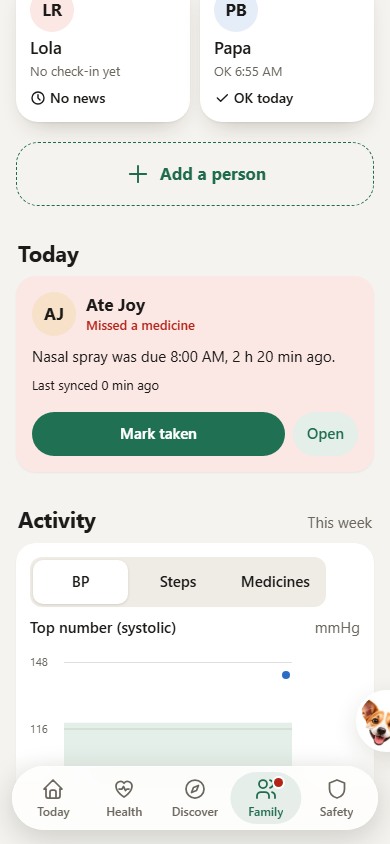
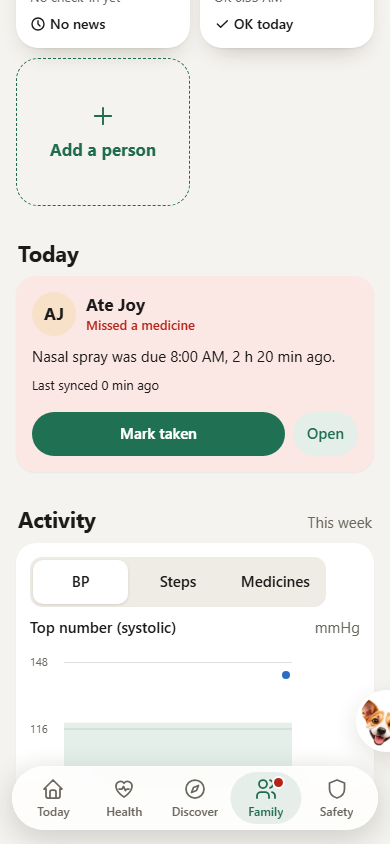
S25 lane D fix round 1: dark media block for Together tiles, order test, Memories grid tests, Add card as a grid cell, tail shot, dark shot

Changed region(s): [[0.0308, 0.0, 0.4923, 0.2156], [0.5231, 0.0, 0.9538, 0.154], [0.4, 0.1848, 0.6769, 0.2464]]

diff --git a/src/features/family/Memories.test.tsx b/src/features/family/Memories.test.tsx
@@ -1,8 +1,13 @@
-import { render, screen } from '@testing-library/react'
-import { describe, expect, it, vi } from 'vitest'
+import { cleanup, fireEvent, render, screen, waitFor, within } from '@testing-library/react'
+import { afterEach, describe, expect, it, vi } from 'vitest'
 
-vi.mock('../shell/useKv', () => ({ useKv: () => [false, vi.fn(), true] }))
+const h = vi.hoisted(() => ({ on: false, photos: [] as { id: string; path: string; caption: string | null; takenOn: string | null; createdAt: string; mine: boolean; url: string | null }[] }))
+vi.mock('../shell/useKv', () => ({ useKv: () => [h.on, vi.fn(), true] }))
+vi.mock('./memoriesApi', () => ({ listPhotos: async () => ({ ok: true, data: h.photos }), addPhoto: vi.fn(), removePhoto: vi.fn() }))
 const { default: Memories } = await import('./Memories')
+
+afterEach(() => { cleanup(); h.on = false; h.photos = [] })
+const photo = (n: number) => ({ id: `p${n}`, path: `f/${n}.jpg`, caption: `Photo ${n}`, takenOn: null, createdAt: '2026-10-01T02:00:00+00:00', mine: false, url: null })
 
 describe('Memories (F8)', () => {
   it('off: one honest empty state, no second title, no "Off for now"', () => {
@@ -11,5 +16,32 @@ describe('Memories (F8)', () => {
     expect(screen.getByText('Memories is off')).toBeTruthy()
     expect(screen.queryByText(/Off for now/)).toBeNull()
     expect(screen.getByRole('button', { name: 'Turn on Memories' })).toBeTruthy()
+  })
+})
+
+describe('Memories grid (S25)', () => {
+  const grid = () => within(screen.getByTestId('mem-grid')).getByRole('group', { name: 'Family photos' })
+  const tiles = () => [...grid().querySelectorAll('.mem-tile')].map((t) => t.textContent ?? '')
+
+  it('the Add a photo tile is the first cell of a 2-column grid; three photos fit with no Show more', async () => {
+    h.on = true; h.photos = [photo(1), photo(2), photo(3)]
+    render(<Memories />)
+    await waitFor(() => expect(tiles()).toHaveLength(4))
+    expect(grid().className).toBe('more-grid')
+    expect(tiles()[0]).toContain('Add a photo')
+    expect(screen.queryByRole('button', { name: /Show/ })).toBeNull()
+  })
+
+  it('six photos: Add plus three show, Show 3 more adds the rest, Show less folds back', async () => {
+    h.on = true; h.photos = [1, 2, 3, 4, 5, 6].map(photo)
+    render(<Memories />)
+    await waitFor(() => expect(tiles()).toHaveLength(4))
+    expect(tiles()[0]).toContain('Add a photo')
+    expect(tiles()[3]).toContain('Photo 3')
+    fireEvent.click(screen.getByRole('button', { name: 'Show 3 more' }))
+    expect(tiles()).toHaveLength(7) // Add and six photos
+    expect(tiles()[6]).toContain('Photo 6')
+    fireEvent.click(screen.getByRole('button', { name: 'Show less' }))
+    expect(tiles()).toHaveLength(4)
   })
 })

diff --git a/src/features/family/s25-family.css b/src/features/family/s25-family.css
@@ -9,6 +9,10 @@
 .fm-papers { background: linear-gradient(180deg, var(--card), color-mix(in srgb, var(--tab-accent-soft, var(--soft)) 45%, var(--card))); border-color: var(--tab-accent, var(--green)); }
 :root[data-theme="dark"] .fm-tile { box-shadow: inset 0 1px 0 rgba(255,255,255,.12), var(--depth-card, 0 12px 26px -14px rgba(0,0,0,.6)); }
 :root[data-theme="dark"] .fm-tile::after { background: radial-gradient(circle, rgba(255,255,255,.14), rgba(255,255,255,0) 70%); }
+@media (prefers-color-scheme: dark) {
+  :root:not([data-theme="light"]) .fm-tile { box-shadow: inset 0 1px 0 rgba(255,255,255,.12), var(--depth-card, 0 12px 26px -14px rgba(0,0,0,.6)); }
+  :root:not([data-theme="light"]) .fm-tile::after { background: radial-gradient(circle, rgba(255,255,255,.14), rgba(255,255,255,0) 70%); }
+}
 
 /* People: a 2-column grid of person cards */
 .pp-card { display: flex; flex-direction: column; align-items: flex-start; gap: 4px; min-height: 148px; box-sizing: border-box; padding: 14px; border-radius: 22px; background: var(--card); color: var(--ink); text-decoration: none; min-width: 0; }
@@ -16,12 +20,9 @@
 .pp-card .sub { font-size: 13px; line-height: 18px; overflow-wrap: anywhere; }
 .pp-st { margin-top: auto; display: inline-flex; align-items: center; gap: 4px; font-size: 14px; font-weight: 600; color: var(--ink); }
 .pp-st[data-k="look"] { color: var(--tint-amber-ink); }
-.pp-add { margin-top: 10px; min-height: 64px; flex-direction: row; align-items: center; justify-content: center; gap: 8px; background: transparent; box-shadow: none; border: 1.5px dashed var(--tab-accent, var(--green)); color: var(--tab-accent, var(--green)); }
+.pp-add { align-items: center; justify-content: center; text-align: center; gap: 8px; background: transparent; box-shadow: none; border: 1.5px dashed var(--tab-accent, var(--green)); color: var(--tab-accent, var(--green)); }
 
-/* Faces row, notes row and memories: wrap, stack or grid; never a sideways scroller */
-.fm2-faces-row { flex-wrap: wrap; overflow-x: visible; margin: 0; padding: 0 0 4px; }
-.fm-notes { display: grid; grid-template-columns: 1fr; overflow-x: visible; margin: 0; padding: 0 0 4px; }
-.bt .fm-note { flex: none; }
+/* Memories and the Jack strip */
 .mem-tile { width: auto; }
 .mem-img { width: 100%; height: auto; aspect-ratio: 1; }
 /* Jack peeks over the right 48 px; the metric tabs stop short of that strip so the last one is never under him (ML-44) */

diff --git a/e2e/s25-family-shots.auth.spec.ts b/e2e/s25-family-shots.auth.spec.ts
@@ -13,7 +13,7 @@ test.use({ viewport: { width: 390, height: 844 } })
 test.describe.configure({ timeout: 90_000 })
 test.beforeEach(async ({ page }) => {
   await skipOnboarding(page)
-  await page.emulateMedia({ colorScheme: "light" }) // no reducedMotion here: with it the roster did not draw after the reload in this fixture (also v13-family.auth root); the CSS honours it regardless
+  await page.emulateMedia({ colorScheme: 'light', reducedMotion: 'reduce' })
 })
 
 test('S25 Family order and no sideways scroller: Together, Papers, Where, Needs, People, Today, Activity', async ({ page }) => {
@@ -31,6 +31,7 @@ test('S25 Family order and no sideways scroller: Together, Papers, Where, Needs,
     await at(page, 0); await page.screenshot({ path: `${SHOTS}/root-top-me.png` })
     await page.getByTestId('needs').scrollIntoViewIfNeeded(); await page.screenshot({ path: `${SHOTS}/root-middle-me.png` })
     await page.getByTestId('people').scrollIntoViewIfNeeded(); await page.screenshot({ path: `${SHOTS}/root-people-me.png` })
+    await page.locator('.bt .scroll').evaluate((el) => { el.scrollTop = el.scrollHeight }); await page.screenshot({ path: `${SHOTS}/root-bottom-today-activity-me.png` })
   }
 })
 
@@ -39,4 +40,14 @@ test('S25 Family with another person selected: Open on a Needs line shows that p
   await page.getByTestId('need-row').first().getByRole('button', { name: /^Open/ }).click()
   await expect(page.getByTestId('person-card').first()).toBeInViewport() // the pick brings Today into view, not the top of the page
   if (SHOTS) await page.screenshot({ path: `${SHOTS}/root-selected-ate.png` })
+})
+
+test('S25 Together tiles in system dark (no data-theme): the dark shadow and highlight apply', async ({ page }) => {
+  await page.emulateMedia({ colorScheme: 'dark', reducedMotion: 'reduce' })
+  await openFamily(page)
+  expect(await page.evaluate(() => document.documentElement.getAttribute('data-theme'))).not.toBe('light')
+  const tile = page.locator('.fm-tile').first()
+  await expect(tile).toBeVisible()
+  expect(await tile.evaluate((e) => getComputedStyle(e).boxShadow)).toContain('rgba(255, 255, 255, 0.12)') // the dark inset edge, from the media block
+  if (SHOTS) { await page.getByTestId('together').scrollIntoViewIfNeeded(); await page.screenshot({ path: `${SHOTS}/together-dark.png` }) }
 })

diff --git a/src/features/family/PeopleList.test.tsx b/src/features/family/PeopleList.test.tsx
@@ -35,11 +35,11 @@ describe('PeopleList flag word (D-109)', () => {
     expect(screen.getByTestId('people-add').getAttribute('href')).toBe('#me/family')
     expect(document.body.textContent).not.toMatch(/place sharing/i)
   })
-  it('People is a 2-column grid, not a sideways scroller', () => {
+  it('People is a 2-column grid, and the Add card is a cell in it, also after Show more', () => {
     render(<PeopleList people={people} />)
     const grid = within(screen.getByTestId('people-list')).getByRole('group', { name: 'People' })
     expect(grid.className).toBe('more-grid')
-    expect(grid.querySelector('.fm2-faces-row, .mem-strip')).toBeNull()
+    expect(grid.lastElementChild).toBe(screen.getByTestId('people-add')) // inside the grid, last cell
   })
   it('five people: four cards, anyone flagged or not checked in first, Show 1 more adds the rest', () => {
     render(<PeopleList people={[...people, person('x1', 'Ana Cruz'), person('x2', 'Ben Cruz')]} />)
@@ -59,5 +59,14 @@ describe('PeopleList flag word (D-109)', () => {
     expect(row(/Zed/).textContent).toContain('2 to check')
     fireEvent.click(screen.getByRole('button', { name: 'Show 1 more' }))
     expect(names()).toEqual(['Zed', 'You', 'Ana', 'Ben', 'Cy'])
+  })
+  it('with more than four people the Add card stays the last cell of the grid, before and after Show more', () => {
+    render(<PeopleList people={[...people, person('x1', 'Ana Cruz'), person('x2', 'Ben Cruz')]} />)
+    const grid = () => within(screen.getByTestId('people-list')).getByRole('group', { name: 'People' })
+    expect(grid().children).toHaveLength(5) // four people and Add
+    expect(grid().lastElementChild).toBe(screen.getByTestId('people-add'))
+    fireEvent.click(screen.getByRole('button', { name: 'Show 1 more' }))
+    expect(grid().children).toHaveLength(6)
+    expect(grid().lastElementChild).toBe(screen.getByTestId('people-add'))
   })
 })

diff --git a/src/features/look/MoreGrid.tsx b/src/features/look/MoreGrid.tsx
@@ -2,8 +2,8 @@ import { Children, useState, type ReactNode } from 'react'
 import './v13.css'
 
 /** S25 (D-156): replaces every side-swiping card row. A 2-column grid shows `step` cards (4), "Show N more" adds `step` at a time, "Show less" folds back.
- *  Children are the cards; each card fills its cell (no fixed widths). */
-export function MoreGrid(p: { children: ReactNode; label: string; testId?: string; step?: number; moreLabel?: (n: number) => string }) {
+ *  `tail` is a card that always ends the grid (an Add card), outside the Show more count. Children are the cards; each card fills its cell (no fixed widths). */
+export function MoreGrid(p: { children: ReactNode; label: string; testId?: string; step?: number; moreLabel?: (n: number) => string; tail?: ReactNode }) {
   const step = p.step ?? 4
   const items = Children.toArray(p.children)
   const [shown, setShown] = useState(step)
@@ -11,7 +11,7 @@ export function MoreGrid(p: { children: ReactNode; label: string; testId?: strin
   const next = Math.min(step, left)
   return (
     <div className="more-grid-wrap" data-testid={p.testId}>
-      <div className="more-grid" role="group" aria-label={p.label}>{items.slice(0, shown)}</div>
+      <div className="more-grid" role="group" aria-label={p.label}>{items.slice(0, shown)}{p.tail}</div>
       {left > 0 && <button type="button" className="more-grid-btn" onClick={() => setShown(shown + step)}>{p.moreLabel ? p.moreLabel(next) : `Show ${next} more`}</button>}
       {left <= 0 && items.length > step && <button type="button" className="more-grid-btn" onClick={() => setShown(step)}>Show less</button>}
     </div>

diff --git a/src/screens/Family.test.tsx b/src/screens/Family.test.tsx
@@ -90,15 +90,14 @@ describe('Family root', () => {
     expect(card.compareDocumentPosition(screen.getByTestId('together-list')) & Node.DOCUMENT_POSITION_PRECEDING).toBeTruthy() // S25: Together first, then Papers
   })
 
-  it('S25 order: Together, Papers, Where, Needs, People, then the shown Today and Activity; no sideways scroller', async () => {
+  it('S25 order: Together, Papers, Where, Needs, People, then the shown Today and Activity', async () => {
     location.hash = '#family'
     const { container } = render(<Family />)
     await screen.findByTestId('papers-card')
     const ids = ['together', 'papers-section', 'where', 'needs', 'people', 'facesrow', 'activity']
-    const at = ids.map((id) => container.querySelector(`[data-testid="${id}"]`)).map((el, i) => ({ id: ids[i], el })).filter((x) => x.el)
-    expect(at.map((x) => x.id).slice(0, 2)).toEqual(['together', 'papers-section'])
-    for (let i = 1; i < at.length; i++) expect(at[i - 1].el!.compareDocumentPosition(at[i].el!) & Node.DOCUMENT_POSITION_FOLLOWING, `${at[i].id} after ${at[i - 1].id}`).toBeTruthy()
-    expect(container.querySelector('.fm2-faces-row, .mem-strip, .fm-notes, .dc-posters')).toBeNull()
+    const found = [...container.querySelectorAll('[data-testid]')].map((el) => el.getAttribute('data-testid')!).filter((id) => ids.includes(id))
+    expect(found).toEqual(ids.filter((id) => found.includes(id))) // whatever shows is in board order, none repeated
+    expect(found.slice(0, 2)).toEqual(['together', 'papers-section'])
   })
 
   it('Scan opens the scan flow', async () => {

diff --git a/src/features/family/PeopleList.tsx b/src/features/family/PeopleList.tsx
@@ -20,7 +20,7 @@ export function PeopleList({ people, places }: { people: FamilyPerson[]; places?
   const ordered = [...people].sort((a, b) => Number(checkInLabel(loaded[a.id]).ok && !flagged(a.id)) - Number(checkInLabel(loaded[b.id]).ok && !flagged(b.id))) // anyone flagged or not checked in leads, so the fold never hides them
   return (
     <Section title="People" testId="people">
-      <MoreGrid label="People" testId="people-list" step={SHOWN}>
+      <MoreGrid label="People" testId="people-list" step={SHOWN} tail={<a className="pp-card pp-add" href="#me/family" data-testid="people-add"><Icon name="plus" size={28} /><b>Add a person</b></a>}>
         {ordered.map((p) => {
           const c = checkInLabel(loaded[p.id])
           const place = places?.find((x) => x.personId === p.id)
@@ -35,7 +35,6 @@ export function PeopleList({ people, places }: { people: FamilyPerson[]; places?
           )
         })}
       </MoreGrid>
-      <a className="pp-card pp-add" href="#me/family" data-testid="people-add"><Icon name="plus" size={28} /><b>Add a person</b></a>
     </Section>
   )
 }

diff --git a/e2e/v13-family.auth.spec.ts b/e2e/v13-family.auth.spec.ts
@@ -24,7 +24,7 @@ for (const scheme of ['light', 'dark'] as const) {
       await page.emulateMedia({ colorScheme: scheme, reducedMotion: 'reduce' })
     })
 
-    test('root (D-109): opens on Me; title, pill, add, one Today card, Activity, Needs, People, Together', async ({ page }) => {
+    test('root (D-109): opens on Me; title, pill, add, Together, Needs, People, one Today card, Activity', async ({ page }) => {
       await openFamily(page)
       await expect(page.locator('h1')).toHaveText('Family')
       await expect(page.locator('.lt-kicker')).not.toContainText('PEOPLE') // no head count: it counted people you may not see
